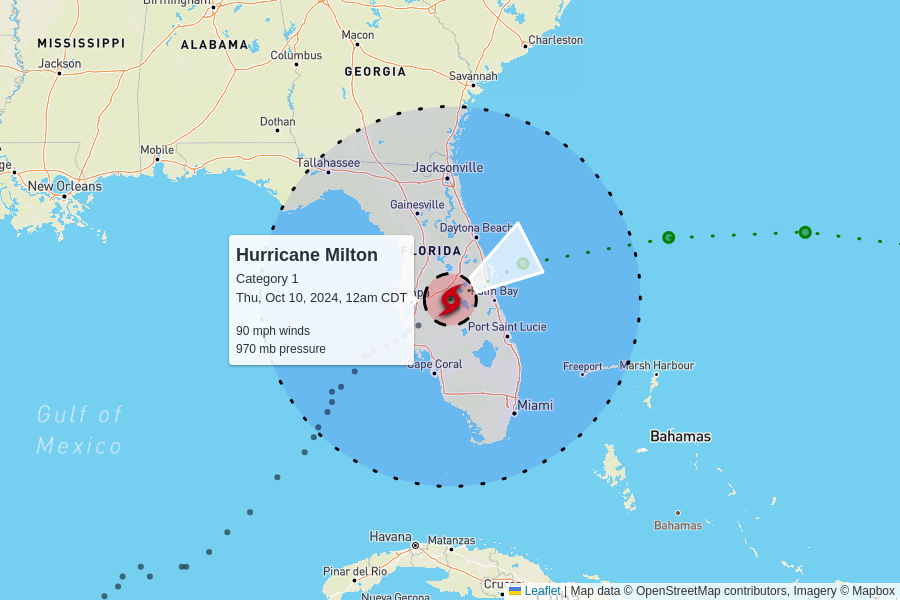
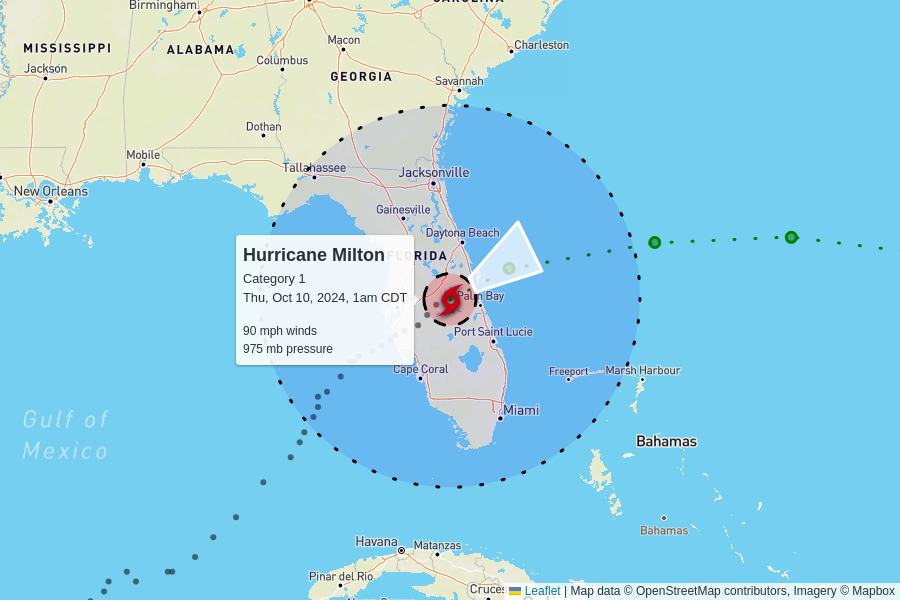
automatic update

diff --git a/docs/index.html b/docs/index.html
@@ -104,7 +104,7 @@
         <td colspan="6" class="storm category-1" >
           <h2>
             Hurricane Milton - Category 1
-            <p class="updated">last updated <span data-time>2024-10-10T05:00:00.000Z</span></p>
+            <p class="updated">last updated <span data-time>2024-10-10T06:00:00.000Z</span></p>
           </h2>
         </td>
       </tr>
@@ -119,8 +119,8 @@
       </tr>
       <tr>
         <td class="spacer"></td>
-        <td>90 mph<br>-10 mph since last update</td>
-        <td>970 mb<br>+4 mb since last update</td>
+        <td>90 mph<br>0 mph since last update</td>
+        <td>975 mb<br>+5 mb since last update</td>
         <td>
           16 mph to the east-northeast
           <br/>
